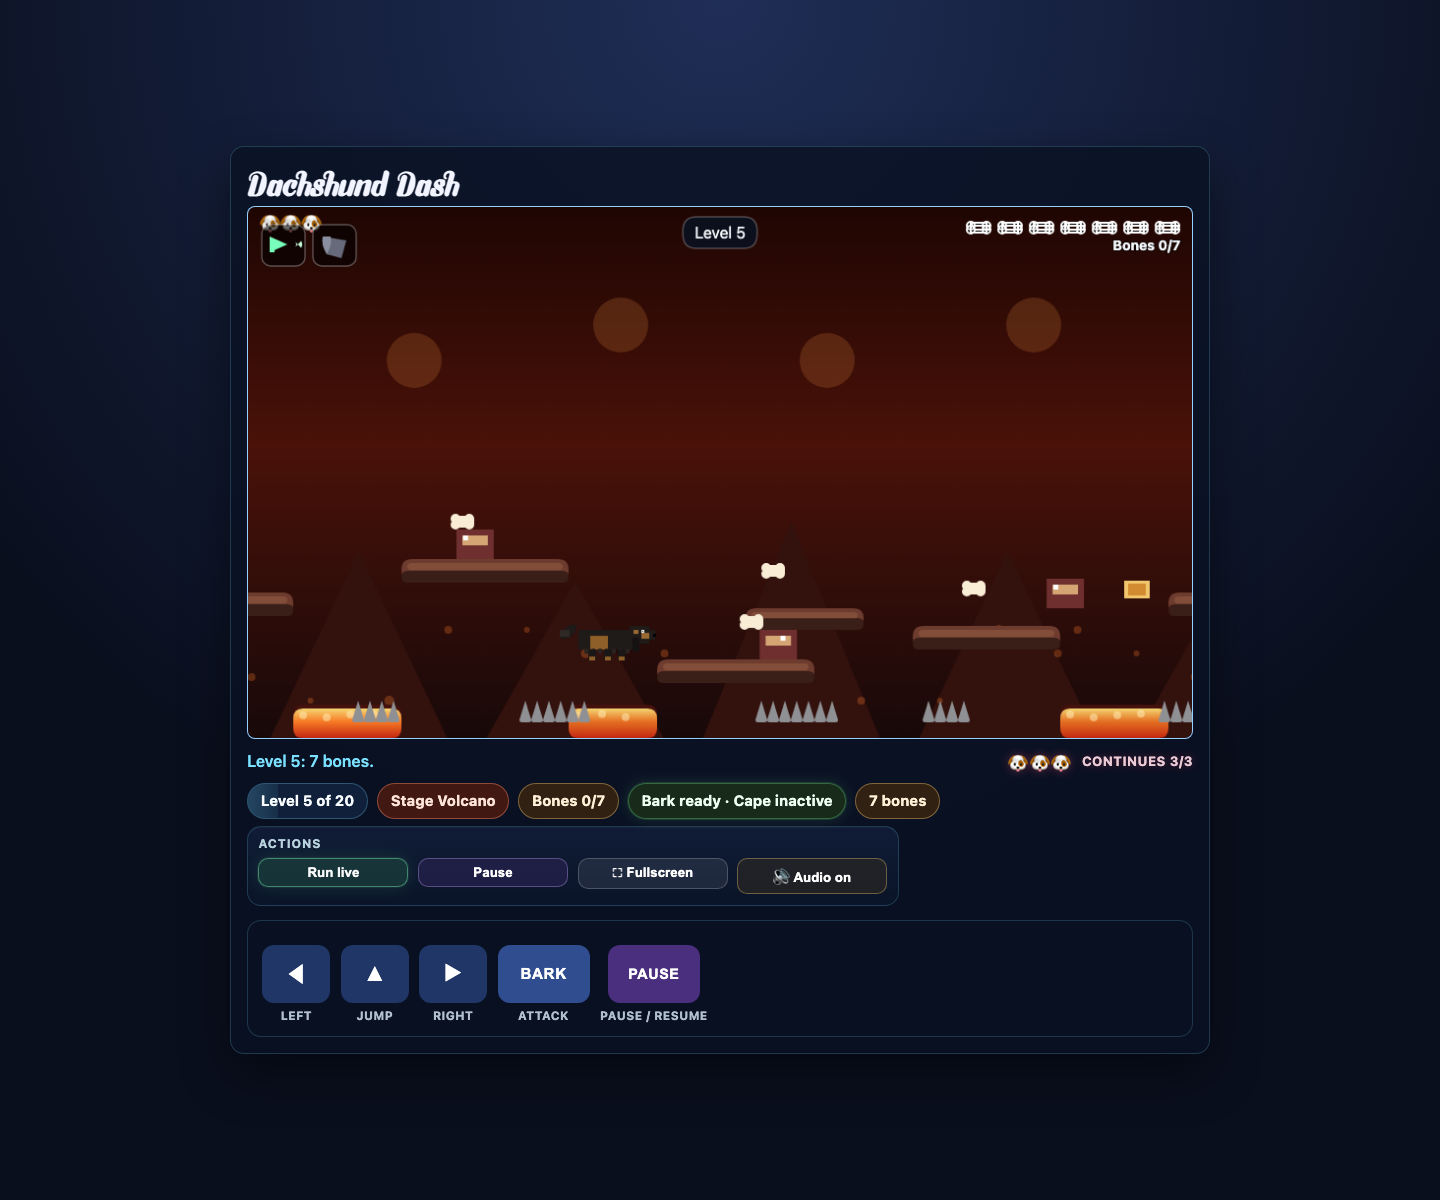
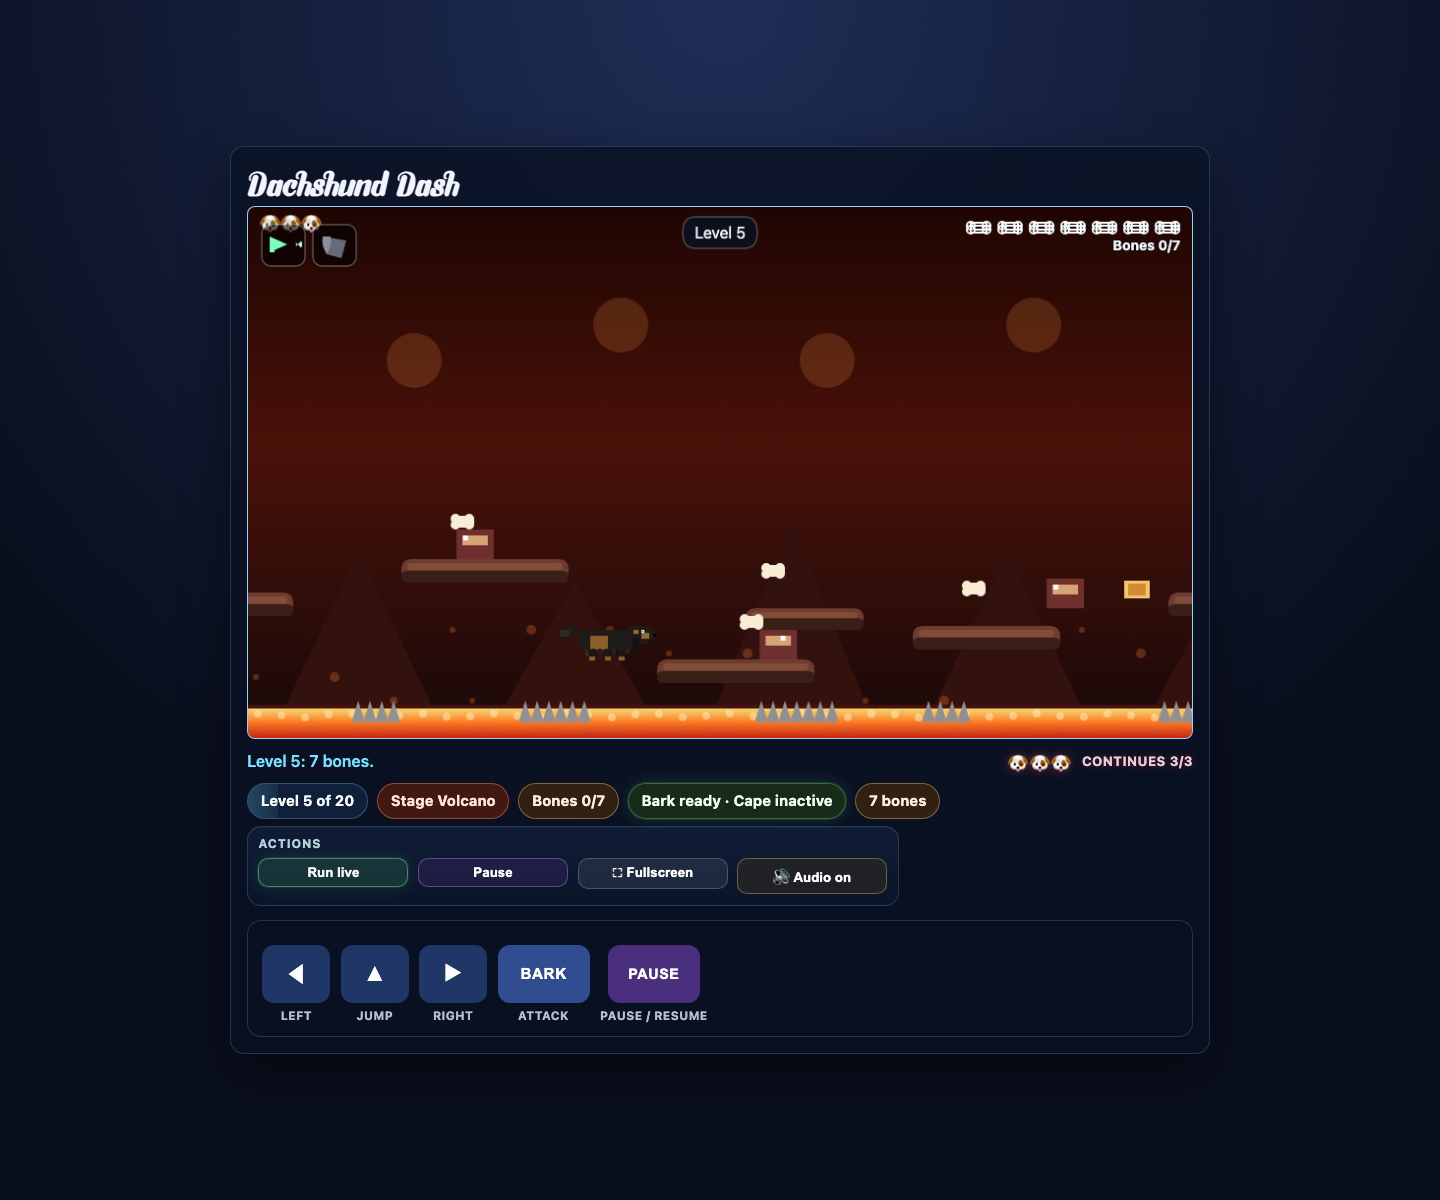
earth not moon

Changed region(s): [[0.25, 0.5858, 0.8438, 0.6167], [0.1562, 0.5858, 0.2188, 0.6167]]

diff --git a/game.js b/game.js
@@ -10,7 +10,9 @@ const closeLevelSelectEl = document.getElementById("close-level-select");
 const startDesktopBtn = document.getElementById("btn-start-desktop");
 const pauseDesktopBtn = document.getElementById("btn-pause-desktop");
 const fullscreenBtn = document.getElementById("btn-fullscreen");
+const touchControlsBtn = document.getElementById("btn-touch-controls");
 const audioBtn = document.getElementById("btn-audio");
+const mobileControlsPanelEl = document.getElementById("mobile-controls-panel");
 const summaryLevelEl = document.getElementById("summary-level");
 const summaryThemeEl = document.getElementById("summary-theme");
 const summaryBonesEl = document.getElementById("summary-bones");
@@ -117,6 +119,8 @@ const BOSS_DASH_TELEGRAPH_MS = 700;
 const BOSS_DASH_SPEED = 8.2;
 const BOSS_DASH_DURATION_MS = 430;
 
+const TOUCH_CONTROLS_STORAGE_KEY = "dachshund-dash-touch-controls-visible";
+
 function intersects(a, b) {
   return a.x < b.x + b.w && a.x + a.w > b.x && a.y < b.y + b.h && a.y + a.h > b.y;
 }
@@ -126,18 +130,19 @@ function isEnemyAlive(enemy) {
 }
 
 function buildLavaPools(platforms, worldWidth) {
-  const sorted = [...platforms].sort((a, b) => a.x - b.x);
-  const pools = [];
-  for (let i = 0; i < sorted.length - 1; i++) {
-    const current = sorted[i];
-    const next = sorted[i + 1];
-    const gapStart = current.x + current.w;
-    const gapWidth = next.x - gapStart;
-    if (gapWidth >= 70) {
-      pools.push({ x: gapStart, y: LAVA_TOP_Y, w: gapWidth, h: LAVA_HEIGHT });
-    }
-  }
-  return pools.filter((pool) => pool.x < worldWidth - 10);
+  const floorPlatforms = [...platforms]
+    .filter((platform) => platform.y >= 495 && platform.h >= 30)
+    .sort((a, b) => a.x - b.x);
+  if (floorPlatforms.length < 2) return [];
+
+  const startPlatform = floorPlatforms[0];
+  const endPlatform = floorPlatforms[floorPlatforms.length - 1];
+  const lavaStart = startPlatform.x + startPlatform.w;
+  const lavaEnd = endPlatform.x;
+  const lavaWidth = lavaEnd - lavaStart;
+
+  if (lavaWidth < 80) return [];
+  return [{ x: lavaStart, y: LAVA_TOP_Y, w: lavaWidth, h: LAVA_HEIGHT }];
 }
 
 function makeLevelTemplate(levelNum) {
@@ -2153,14 +2158,21 @@ function drawParallax() {
       ctx.fillRect(x, y, i % 3 === 0 ? 3 : 2, i % 3 === 0 ? 3 : 2);
     }
 
-    ctx.fillStyle = "rgba(216, 226, 255, 0.95)";
+    const earthX = canvas.width - 170;
+    const earthY = 92;
+    ctx.fillStyle = "rgba(87, 147, 255, 0.96)";
     ctx.beginPath();
-    ctx.arc(canvas.width - 170, 92, 54, 0, Math.PI * 2);
+    ctx.arc(earthX, earthY, 54, 0, Math.PI * 2);
     ctx.fill();
-    ctx.fillStyle = "rgba(120, 130, 170, 0.26)";
+    ctx.fillStyle = "rgba(205, 245, 255, 0.18)";
     ctx.beginPath();
-    ctx.arc(canvas.width - 190, 74, 16, 0, Math.PI * 2);
-    ctx.arc(canvas.width - 146, 112, 12, 0, Math.PI * 2);
+    ctx.arc(earthX - 16, earthY - 18, 50, 0, Math.PI * 2);
+    ctx.fill();
+    ctx.fillStyle = "rgba(92, 196, 122, 0.88)";
+    ctx.beginPath();
+    ctx.ellipse(earthX - 12, earthY - 8, 18, 12, -0.35, 0, Math.PI * 2);
+    ctx.ellipse(earthX + 16, earthY + 10, 15, 10, 0.45, 0, Math.PI * 2);
+    ctx.ellipse(earthX + 4, earthY - 26, 10, 7, 0.1, 0, Math.PI * 2);
     ctx.fill();
 
     ctx.fillStyle = "#6f748c";
@@ -4002,6 +4014,49 @@ if (pauseDesktopBtn) {
   });
 }
 
+function prefersTouchControlsOpenByDefault() {
+  return Boolean(
+    (window.matchMedia && window.matchMedia("(pointer: coarse)").matches) ||
+      navigator.maxTouchPoints > 0
+  );
+}
+
+function setTouchControlsVisible(visible, persist = true) {
+  if (!mobileControlsPanelEl || !touchControlsBtn) return;
+
+  mobileControlsPanelEl.classList.toggle("is-collapsed", !visible);
+  mobileControlsPanelEl.setAttribute("aria-hidden", visible ? "false" : "true");
+  touchControlsBtn.textContent = visible ? "📱 Hide touch controls" : "📱 Show touch controls";
+  touchControlsBtn.classList.toggle("active", visible);
+  touchControlsBtn.setAttribute("aria-label", visible ? "Hide touch controls" : "Show touch controls");
+  touchControlsBtn.setAttribute("aria-expanded", visible ? "true" : "false");
+  const hintEl = touchControlsBtn.parentElement?.querySelector(".utility-btn-hint");
+  if (hintEl) {
+    hintEl.textContent = visible
+      ? "Hide the on-screen controls again once you are done with mouse/touch play."
+      : "Reveal the on-screen controls when you want mouse/touch play.";
+  }
+
+  if (persist) {
+    try {
+      window.localStorage.setItem(TOUCH_CONTROLS_STORAGE_KEY, visible ? "shown" : "hidden");
+    } catch (_) {}
+  }
+}
+
+function initTouchControlsVisibility() {
+  if (!mobileControlsPanelEl || !touchControlsBtn) return;
+
+  let visible = prefersTouchControlsOpenByDefault();
+  try {
+    const saved = window.localStorage.getItem(TOUCH_CONTROLS_STORAGE_KEY);
+    if (saved === "shown") visible = true;
+    if (saved === "hidden") visible = false;
+  } catch (_) {}
+
+  setTouchControlsVisible(visible, false);
+}
+
 function noteJumpTap() {
   state.jumpPressedThisFrame = true;
   state.lastJumpTapAt = Date.now();
@@ -4061,6 +4116,14 @@ if (fullscreenBtn) {
   document.addEventListener("fullscreenchange", updateLabel);
 }
 
+if (touchControlsBtn) {
+  touchControlsBtn.addEventListener("pointerdown", (e) => {
+    e.preventDefault();
+    const visible = mobileControlsPanelEl?.classList.contains("is-collapsed");
+    setTouchControlsVisible(visible);
+  });
+}
+
 if (audioBtn) {
   audioBtn.addEventListener("pointerdown", (e) => {
     e.preventDefault();
@@ -4068,4 +4131,5 @@ if (audioBtn) {
   });
 }
 
+initTouchControlsVisibility();
 startAfterFonts();

diff --git a/index.html b/index.html
@@ -34,21 +34,29 @@
           <div class="utility-actions-buttons">
             <div class="utility-action-group">
               <button id="btn-start-desktop" class="utility-btn utility-btn-start" aria-label="Start run from the title screen">Start run</button>
+              <span class="utility-btn-hint">Start from the title screen without using the keyboard</span>
             </div>
             <div class="utility-action-group">
               <button id="btn-pause-desktop" class="utility-btn utility-btn-pause" aria-label="Pause or resume">Pause</button>
+              <span class="utility-btn-hint">Stop or resume a run with a click or press <kbd>P</kbd> / <kbd>Esc</kbd></span>
             </div>
             <div class="utility-action-group">
               <button id="btn-fullscreen" class="utility-btn" aria-label="Toggle fullscreen">⛶ Fullscreen</button>
+              <span class="utility-btn-hint">Stretch the playfield for distraction-free play, then press <kbd>Esc</kbd> to exit.</span>
+            </div>
+            <div class="utility-action-group">
+              <button id="btn-touch-controls" class="utility-btn utility-btn-touch" aria-label="Show touch controls" aria-controls="mobile-controls-panel" aria-expanded="false">📱 Show touch controls</button>
+              <span class="utility-btn-hint">Reveal the on-screen controls when you want mouse/touch play.</span>
             </div>
             <div class="utility-action-group">
               <button id="btn-audio" class="utility-btn utility-btn-audio" aria-label="Mute game audio">🔊 Audio on</button>
+              <span class="utility-btn-hint">Mute music and sound effects with one click or press M</span>
             </div>
           </div>
         </div>
       </section>
 
-      <section class="mobile-controls-panel" aria-label="On-screen controls panel">
+      <section id="mobile-controls-panel" class="mobile-controls-panel" aria-label="On-screen controls panel">
         <div class="mobile-controls" aria-label="On-screen controls">
           <div class="mobile-control-item">
             <button id="btn-left" aria-label="Move left">◀</button>

diff --git a/styles.css b/styles.css
@@ -459,6 +459,21 @@ h1 {
   border-color: rgba(115, 234, 181, 0.45);
 }
 
+.utility-btn-touch {
+  background: rgba(18, 66, 83, 0.3);
+  border-color: rgba(123, 231, 255, 0.34);
+}
+
+.utility-btn-touch:hover {
+  background: rgba(24, 92, 115, 0.4);
+}
+
+.utility-btn-touch.active {
+  background: rgba(38, 112, 134, 0.44);
+  border-color: rgba(164, 241, 255, 0.52);
+  box-shadow: 0 0 0 1px rgba(121, 225, 255, 0.16), 0 0 18px rgba(121, 225, 255, 0.16);
+}
+
 .utility-btn-audio {
   background: rgba(82, 60, 18, 0.28);
   border-color: rgba(255, 217, 121, 0.34);
@@ -480,6 +495,10 @@ h1 {
   border-radius: 14px;
   border: 1px solid rgba(121, 225, 255, 0.18);
   background: rgba(8, 17, 35, 0.6);
+}
+
+.mobile-controls-panel.is-collapsed {
+  display: none;
 }
 
 .mobile-controls-heading {

diff --git a/CHANGELOG.md b/CHANGELOG.md
@@ -1,6 +1,28 @@
 # Dachshund Dash Changelog
 
+## 2026-06-12
+### Daily improvement: quick-action helper captions are visible again
+- Restored the short helper captions beneath the desktop **Quick actions** buttons so mouse-first players can actually see what **Start**, **Pause**, **Fullscreen**, **Touch controls**, and **Audio** do at a glance.
+- Reused the helper-copy logic that was already in the game code, which means the captions now stay truthful as states change instead of drifting out of sync.
+- Wired the new **Touch controls** toggle into that same helper system, so its caption flips between reveal/hide guidance along with the button label.
+
+![Desktop quick actions showing visible helper captions under Start, Pause, Fullscreen, Touch controls, and Audio](changelog/2026-06-12-quick-action-helper-captions.png)
+
+### Daily improvement: desktop touch controls now stay out of the way until needed
+- Added a new **Show touch controls** quick-action button so desktop players can reveal the on-screen controls only when they actually want them.
+- The large touch-control panel now starts **collapsed by default on desktop**, which keeps the start screen and HUD noticeably cleaner without removing mobile support.
+- The toggle remembers the player’s last choice locally, while touch-first devices still open the panel by default.
+
+![Desktop start screen with the new Show touch controls toggle keeping the touch pad hidden until needed](changelog/2026-06-12-touch-controls-toggle.png)
+
 ## 2026-06-11
+### Art pass: volcano lava now spans the floor and the moon sky now shows Earth
+- Changed the **volcano** stage lava so it stretches across the whole floor hazard zone, leaving safe ground only at the opening platform and the flag platform.
+- Replaced the extra **moon** in the moon-stage sky with an **Earth** backdrop so the scene reads more clearly.
+- Kept both changes visual and local to level presentation/hazard layout.
+
+![Moon level sky now showing Earth instead of a second moon](changelog/2026-06-11-moon-earth-sky.png)
+
 ### Progression pass: first two levels stay normal and a volcano stage now joins the run
 - Moved the special-theme rollout later so **Levels 1 and 2 stay normal**, giving players time to learn the controls before the gimmick stages begin.
 - Shifted the themed progression so the run now introduces **Swim** on Level 3, **Moon** on Level 4, **Volcano** on Level 5, **Big Corgis** on Level 6, and **Lights** on Level 7.
